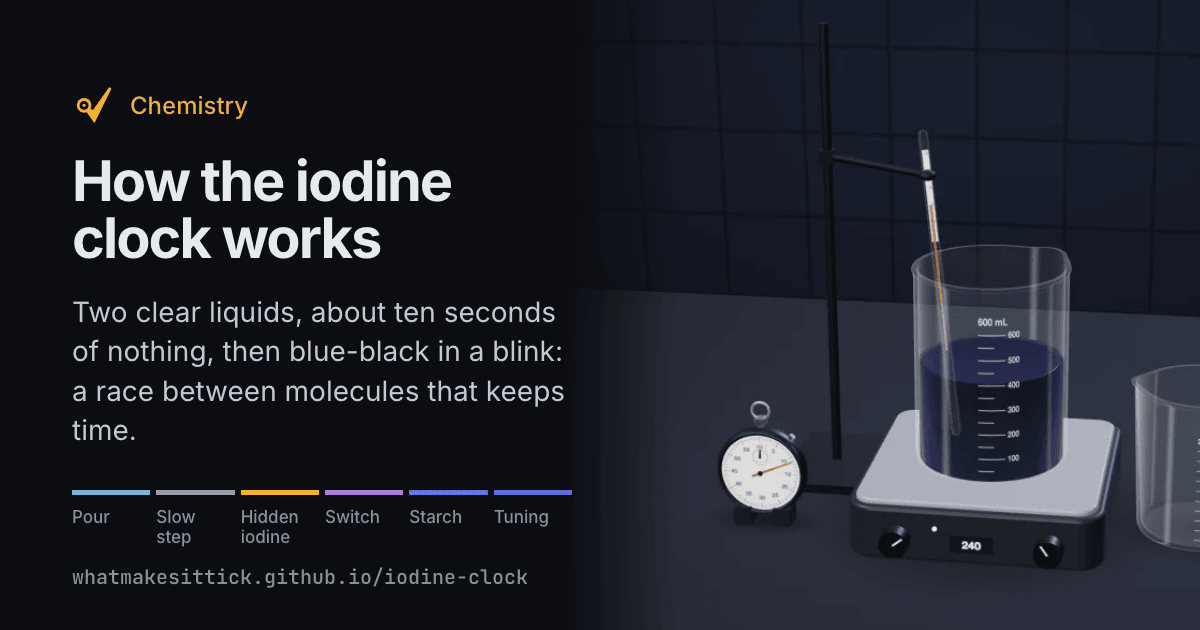
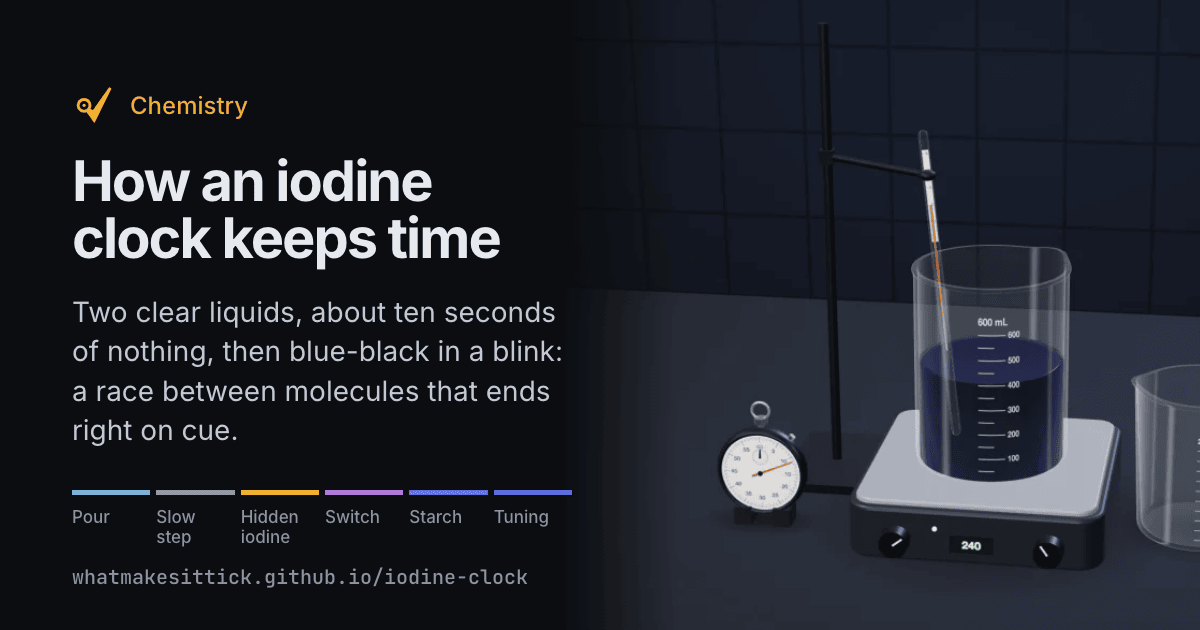
fix(iodine-clock): retitle to say what the clock does

Changed region(s): [[0.1542, 0.2413, 0.4317, 0.4222], [0.0617, 0.6635, 0.185, 0.7238], [0.4008, 0.6032, 0.4625, 0.6333]]

diff --git a/scripts/cards/iodine-clock.html b/scripts/cards/iodine-clock.html
@@ -2,7 +2,7 @@
 <html lang="en">
   <head>
     <meta charset="UTF-8" />
-    <title>How the iodine clock works: social card</title>
+    <title>How an iodine clock keeps time: social card</title>
     <link rel="preconnect" href="https://fonts.googleapis.com" />
     <link rel="preconnect" href="https://fonts.gstatic.com" crossorigin />
     <link
@@ -138,10 +138,10 @@
         <img src="../../public/favicon.svg" alt="" />
         Chemistry
       </p>
-      <h1>How the iodine clock works</h1>
+      <h1>How an iodine clock keeps time</h1>
       <p class="subtitle">
         Two clear liquids, about ten seconds of nothing, then blue-black in a blink: a race between
-        molecules that keeps time.
+        molecules that ends right on cue.
       </p>
       <ol class="topics">
         <li style="--tone: var(--pour)">Pour</li>
